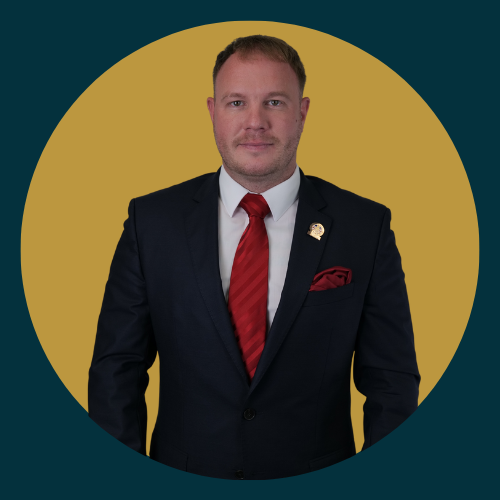
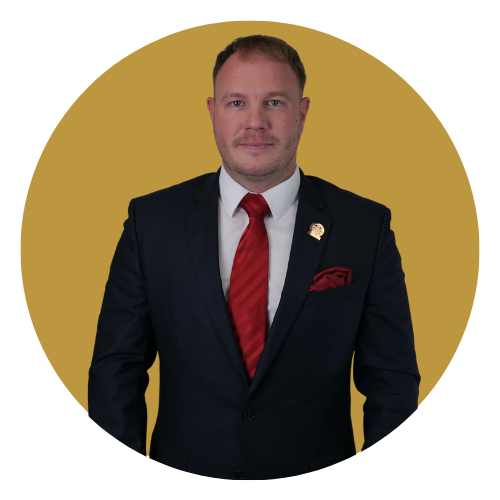
1st Draft

diff --git a/index.html b/index.html
@@ -70,8 +70,8 @@
         <div id="agent-img">
             <div class="agent">
                 <img alt="Img Of An Agent" src="1.png">
-                <h3>Generic Name</h3>
-                <p>CEO and CTO</p>
+                <h3>Alex Kyriacou</h3>
+                <p>Advisor</p>
             </div>
             <div class="agent">
                 <img alt="Img Of An Agent" src="2.png">
@@ -80,10 +80,56 @@
             </div>
             <div class="agent">
                 <img alt="Img Of An Agent" src="3.png">
-                <h3>Generic Name</h3>
-                <p>CEO and CTO</p>
+                <h3>Ellie Ball</h3>
+                <p>Administration Supervisor</p>
+            </div>
+            <div class="agent">
+                <img alt="Img Of An Agent" src="4.png">
+                <h3>Scott Durrant</h3>
+                <p>Advisor</p>
+            </div>
+            <div class="agent">
+                <img alt="Img Of An Agent" src="5.png">
+                <h3>Claire Abram</h3>
+                <p>Accounting Assistant</p>
+            </div>
+            <div class="agent">
+                <img alt="Img Of An Agent" src="6.png">
+                <h3>Oliver Dorrian</h3>
+                <p>Web Developer</p>
+            </div>
+            <div class="agent">
+                <img alt="Img Of An Agent" src="7.png">
+                <h3>Anwar Own</h3>
+                <p>International Advisor</p>
+            </div>
+            <div class="agent">
+                <img alt="Img Of An Agent" src="8.png">
+                <h3>John Ball Jnr</h3>
+                <p>Senior Advisor</p>
+            </div>
+            <div class="agent">
+                <img alt="Img Of An Agent" src="9.png">
+                <h3>Mark Curley</h3>
+                <p>Business Development Manager</p>
+            </div>
+            <div class="agent">
+                <img alt="Img Of An Agent" src="10.png">
+                <h3>Blake Harrison</h3>
+                <p>Head of Global Business</p>
+            </div>
+            <div class="agent">
+                <img alt="Img Of An Agent" src="11.png">
+                <h3>John Graham</h3>
+                <p>Advisor</p>
+            </div>
+            <div class="agent">
+                <img alt="Img Of An Agent" src="12.png">
+                <h3>Devin Greenall</h3>
+                <p>International Marketing Assistant</p>
             </div>
         </div>
     </div>
+
 </body>
 </html>

diff --git a/index.css b/index.css
@@ -94,13 +94,13 @@ body, html {
 #img-of-agents {
     padding-top: 60px;
     padding-bottom: 60px;
-    background-color: #04313D;
+    background-color: white;
 }
 
 #agent-img-titles h1 {
     text-align: center;
     font-size: 52px;
-    color: #D6A53F;
+    color: black;
 }
 
 
@@ -135,8 +135,10 @@ body, html {
     text-align: center;
     font-size: 30px;
     margin: 0;
+    color: black;
 }
 
 .agent p {
     text-align: center;
+    color: black;
 }
